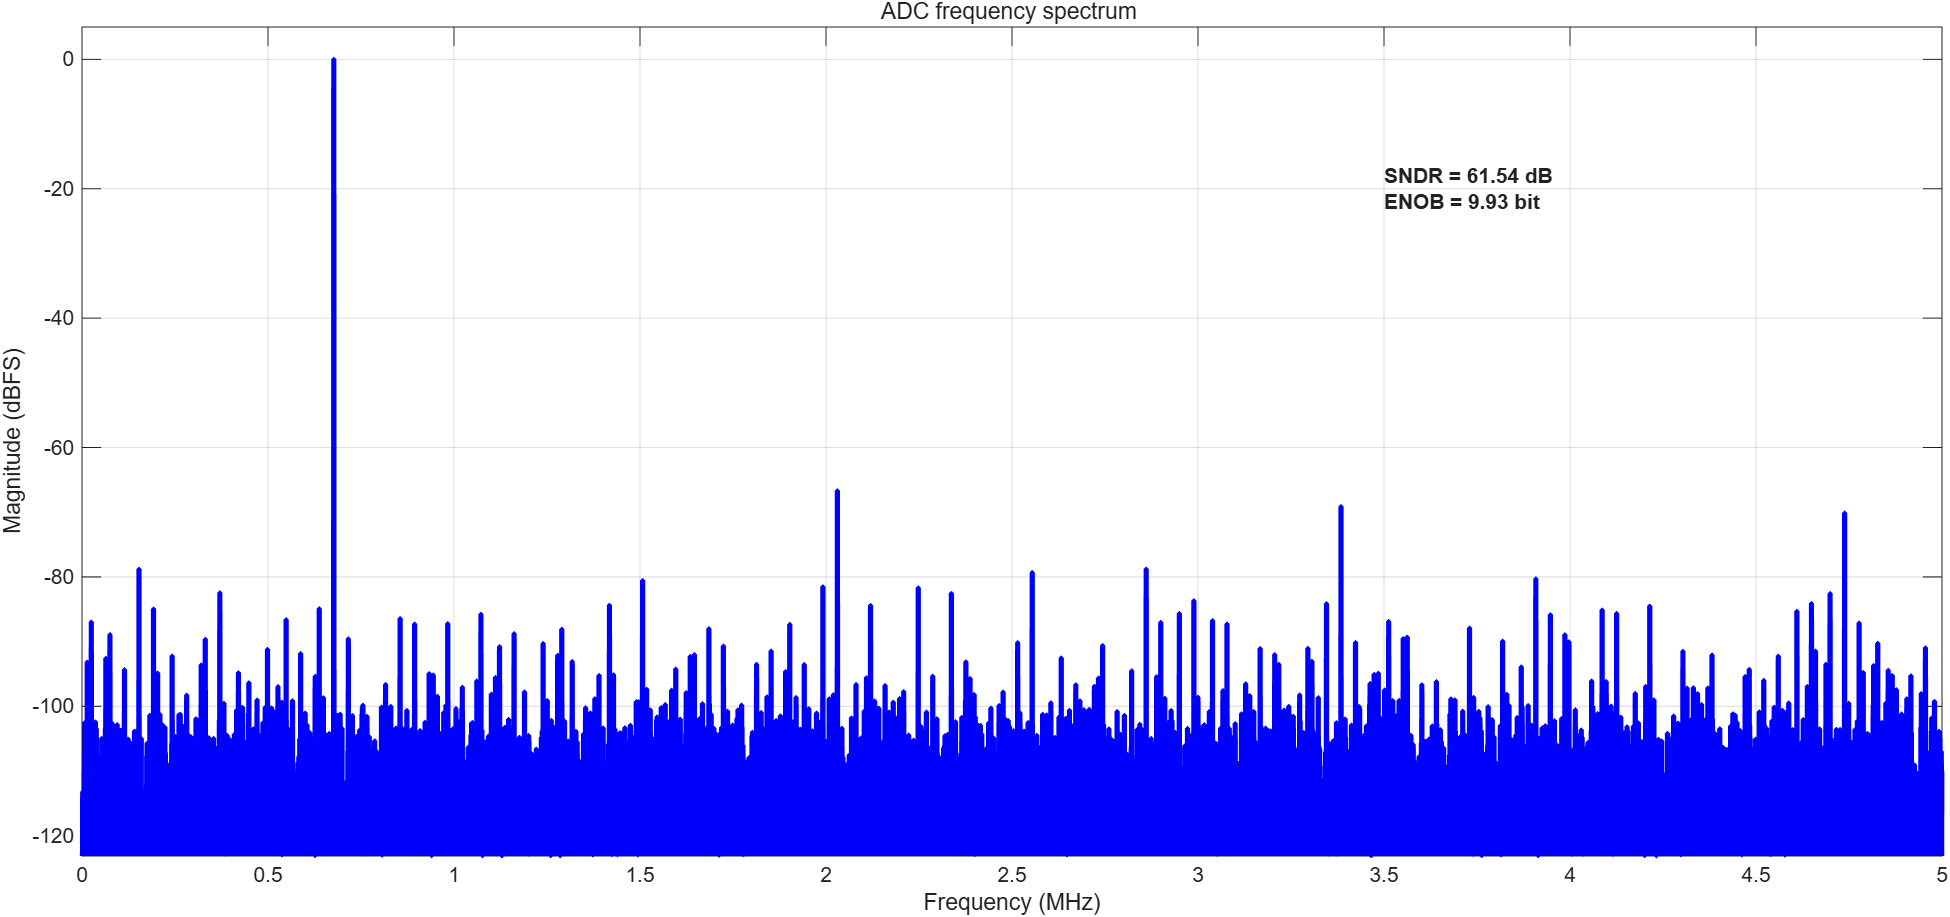
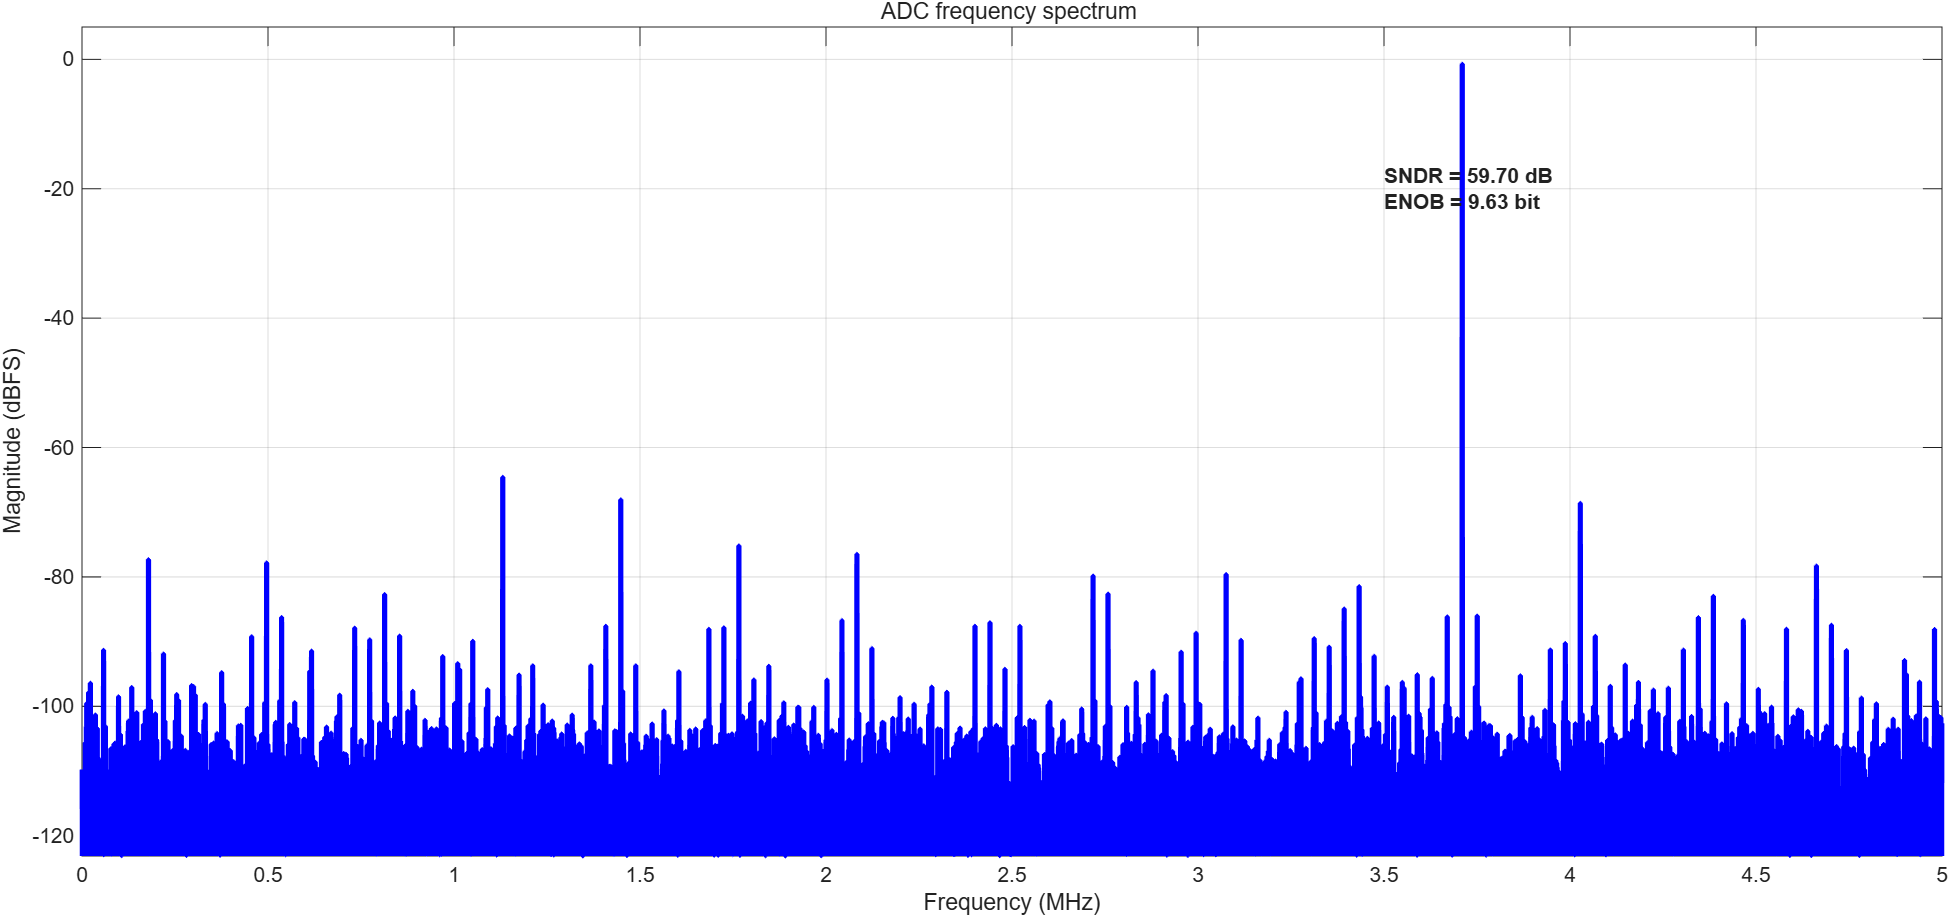
change the drawing about bwa comparison

Changed region(s): [[0.0308, 0.6107, 1.0, 0.8244], [0.7385, 0.1832, 0.8, 0.2443]]

diff --git a/testbench/sim-bwa-architecture-comparison/simDifferentialConventionalBwaAdcComparisonStaticTest.m b/testbench/sim-bwa-architecture-comparison/simDifferentialConventionalBwaAdcComparisonStaticTest.m
@@ -28,7 +28,7 @@ for iTopology = 1 : length( dacTopology )
 
   p.dacTopology = dacTopology{ iTopology };
 
-  rng( 20 );
+  rng( 77 );
  
   %% generate CDAC array
 

diff --git a/testbench/sim-bwa-architecture-comparison/simDifferentialConventionalBwaAdcComparisonDynamicTest.m b/testbench/sim-bwa-architecture-comparison/simDifferentialConventionalBwaAdcComparisonDynamicTest.m
@@ -24,7 +24,7 @@ for iTopology = 1 : length( dacTopology )
 
   %% set the seed
 
-  rng( 11 );
+  rng( 10 );
 
   %% generate samples
 
